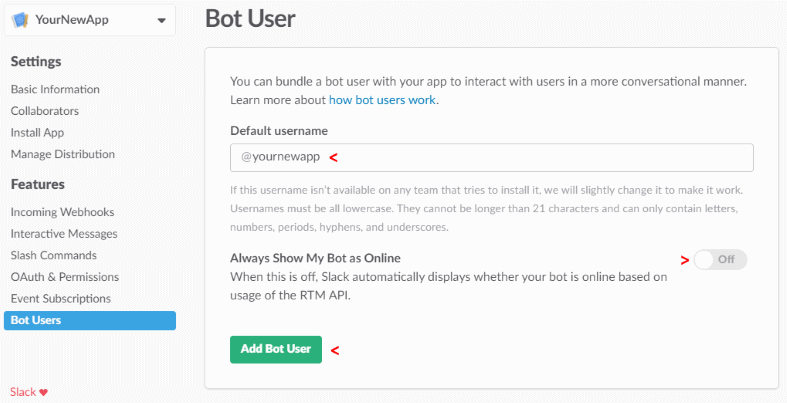
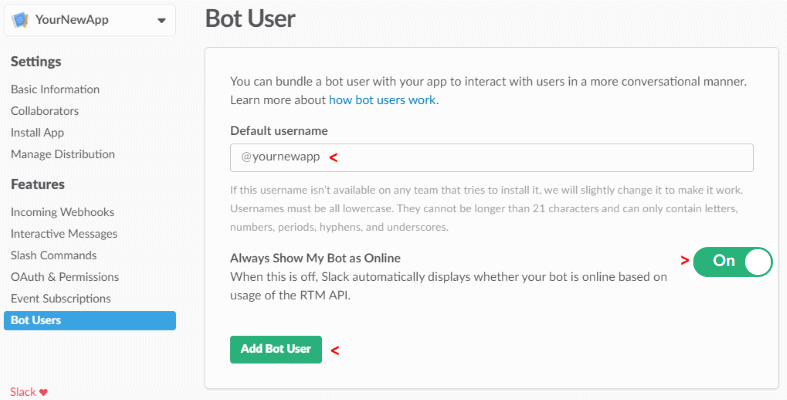
Subscribe to bot events, always show bot online (#189)
Slack doc update

diff --git a/articles/channel-connect-slack.md b/articles/channel-connect-slack.md
@@ -25,9 +25,10 @@ Enter an App Name and select a Development Slack Team. If you are not already a 
 
 ![Create app](~/media/channels/slack-CreateApp.png)
 
-Click Create App. Slack will create your app and generate a Client ID and Client Secret.
+Click **Create App**. Slack will create your app and generate a Client ID and Client Secret.
 
 ## Add a new Redirect URL
+
 Next you will add a new Redirect URL.
 
 1. Select the **OAuth & Permissions** tab. 
@@ -38,7 +39,28 @@ Next you will add a new Redirect URL.
 
 ![Add Redirect URL](~/media/channels/slack-RedirectURL.png)
 
+## Subscribe to Bot Events
+
+By subscribing to bot events, your app will be notified of user activities at the URL you specify.
+
+1. Select the **Event Subscriptions** tab.
+2. Click **Enable Events** to **On**.
+3. In **Request URL**, enter this URL, but replace `{YourBotHandle}` with your bot handle.
+        `https://slack.botframework.com/api/Events/{YourBotHandle}`
+4. In **Subscribe to Bot Events**, click **Add Bot User Event**.
+5. In the list of events, click Add **Bot User Event** to subscribe to these six event types:
+    * `member_joined_channel`
+    * `member_left_channel`
+    * `message.channels`
+    * `message.groups`
+    * `message.im`
+    * `message.mpim`
+6. Click **Save Changes**.
+
+![Subscribe to Events](~/media/channels/slack-EnableEvents.png)
+
 ## Create a Slack Bot User
+
 Adding a Bot User allows you to assign a username for your bot and choose whether it is always shown as online.
 
 1. Select the **Bot Users** tab.
@@ -46,13 +68,13 @@ Adding a Bot User allows you to assign a username for your bot and choose whethe
 
 ![Create bot](~/media/channels/slack-CreateBot.png)
 
-Click **Add Bot User** to validate your settings, and then click **Save Changes**. 
+Click **Add Bot User** to validate your settings, click **Always Show My Bot as Online** to **On**, and then click **Save Changes**.
 
 ![Create bot](~/media/channels/slack-CreateApp-AddBotUser.png)
 
 ## Add and Configure Interactive Messages (optional)
 
-If your bot will use Slack-specific functionality such as buttons, select the **Interactive Messages** tab and click **Enable Interactive Messages.
+If your bot will use Slack-specific functionality such as buttons, select the **Interactive Messages** tab and click **Enable Interactive Messages**.
 
 1. Enter https://slack.botframework.com/api/Actions as the Request URL for Interactive Messages.
 2. Click the **Enable Interactive Messages** button and **Save changes** once the URL is successfully validated.
@@ -60,7 +82,7 @@ If your bot will use Slack-specific functionality such as buttons, select the **
 ![Enable messages](~/media/channels/slack-MessageURL.png)
 
 ## Gather credentials
-Select the **Basic Information** tab and scroll to the **App Credentials** section. The Client ID, Client Secret and optional Verification Token required for configuration of your Slack bot are displayed.
+Select the **Basic Information** tab and scroll to the **App Credentials** section. The Client ID, Client Secret, and Verification Token required for configuration of your Slack bot are displayed.
 
 ![Gather credentials](~/media/channels/slack-AppCredentials.png)
 
